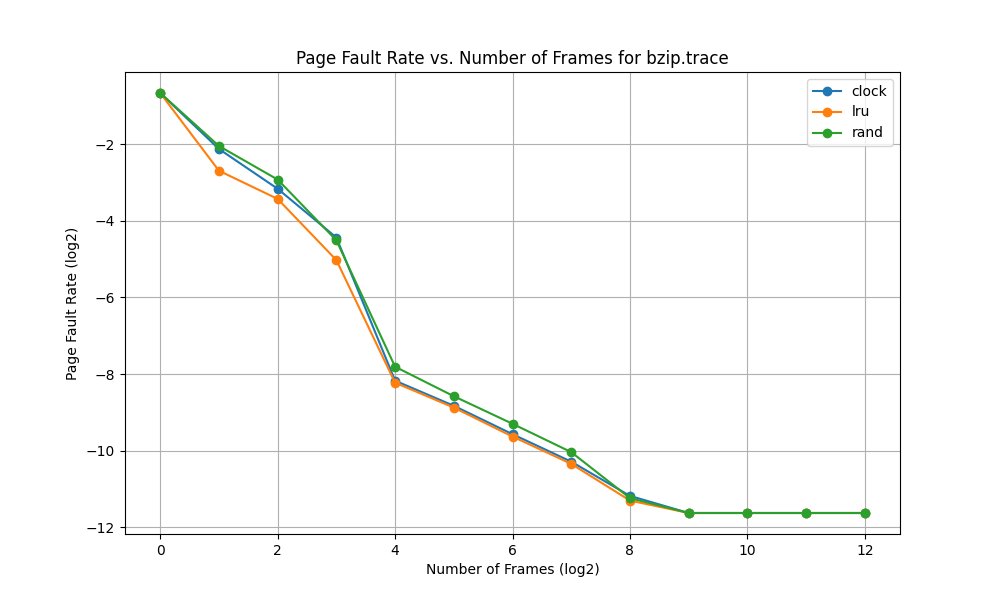
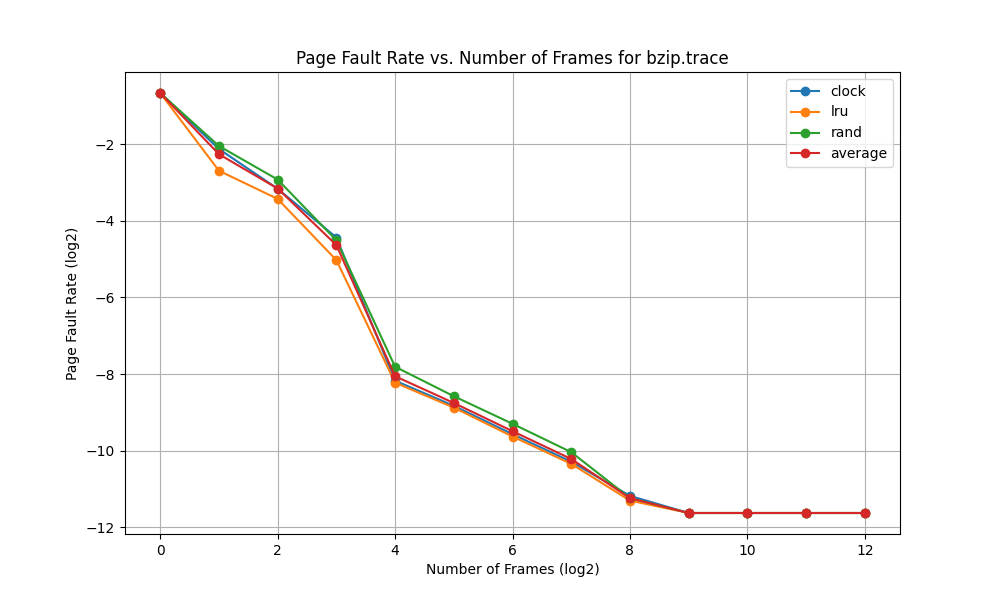
Added average series to all charts

diff --git a/prac2/visualisations.py b/prac2/visualisations.py
@@ -38,6 +38,14 @@ def plot_fault_rate(subset: pd.DataFrame, label: str, show: bool = False):
             subset2 = subset[subset['trace'] == trace]
             print(subset2.to_string())
             plt.plot(subset2['frames_log'], subset2['fault_rate_log'], marker='o', label=trace)
+    
+    second_level = "mmu" if traces_dep else "trace"
+    drop_it = "trace" if traces_dep else "mmu"
+    subset3 = subset.copy().set_index(keys=['frames', second_level], drop=True).sort_index().drop(columns=[drop_it])
+    mean = subset3.groupby(level=['frames']).mean()
+    mean['fault_rate_log'] = mean['fault_rate'].apply(lambda x: math.log(x, 2))
+    print(mean.to_string())
+    plt.plot(mean['frames_log'], mean['fault_rate_log'], marker='o', label='average')
 
     plt.title(f'Page Fault Rate vs. Number of Frames for {label}')
     plt.xlabel('Number of Frames (log2)')
@@ -45,38 +53,6 @@ def plot_fault_rate(subset: pd.DataFrame, label: str, show: bool = False):
     plt.legend()
     plt.grid(True)
     plt.savefig(f'plots/fault_rate_vs_frames/fault_rate_vs_frames_{"traces" if traces_dep else "mmu"}_{label}.png')
-    if show:
-        plt.show()
-
-def plot_disk_accesses(subset: pd.DataFrame, label: str, show: bool = False):
-    traces = sorted(subset['trace'].unique())
-    mmus = sorted(set(subset['mmu']))
-
-    traces_dep = None
-
-    if len(traces) == 1:
-        traces_dep = True
-    if len(mmus) == 1:
-        traces_dep = False
-
-    plt.figure(figsize=(10, 6))
-    if traces_dep:
-        for mmu in mmus:
-            subset2 = subset[subset['mmu'] == mmu]
-            print(subset2.to_string())
-            plt.plot(subset2['frames_log'], subset2['disk_accesses_log'], marker='o', label=mmu)
-    else:
-        for trace in traces:
-            subset2 = subset[subset['trace'] == trace]
-            print(subset2.to_string())
-            plt.plot(subset2['frames_log'], subset2['disk_accesses_log'], marker='o', label=trace)
-
-    plt.title(f'Disk Accesses (Reads + Writes) vs. Number of Frames for {label}')
-    plt.xlabel('Number of Frames (log2)')
-    plt.ylabel('Disk Accesses (Reads + Writes) (log10)')
-    plt.legend()
-    plt.grid(True)
-    plt.savefig(f'plots/disk_accesses_vs_frames/disk_accesses_vs_frames_{"traces" if traces_dep else "mmu"}_{label}.png')
     if show:
         plt.show()
 
@@ -90,11 +66,12 @@ def plot_thread_time(subset: pd.DataFrame, label: str, show: bool = False):
         traces_dep = True
     if len(mmus) == 1:
         traces_dep = False
+    print(traces_dep, label)
 
     plt.figure(figsize=(10, 6))
     if traces_dep:
         for mmu in mmus:
-            subset2 = subset[subset['mmu'] == mmu]
+            subset2: pd.DataFrame = subset[subset['mmu'] == mmu]
             print(subset2.to_string())
             plt.plot(subset2['frames_log'], subset2['time_sec'], marker='o', label=mmu)
     else:
@@ -102,6 +79,13 @@ def plot_thread_time(subset: pd.DataFrame, label: str, show: bool = False):
             subset2 = subset[subset['trace'] == trace]
             print(subset2.to_string())
             plt.plot(subset2['frames_log'], subset2['time_sec'], marker='o', label=trace)
+    
+    second_level = "mmu" if traces_dep else "trace"
+    drop_it = "trace" if traces_dep else "mmu"
+    subset3 = subset.copy().set_index(keys=['frames', second_level], drop=True).sort_index().drop(columns=[drop_it])
+    mean = subset3.groupby(level=['frames']).mean()
+    print(mean.to_string())
+    plt.plot(mean['frames_log'], mean['time_sec'], marker='o', label='average')
 
     plt.title(f'System Cost vs. Number of Frames for {label}')
     plt.xlabel('Number of Frames (log2)')
